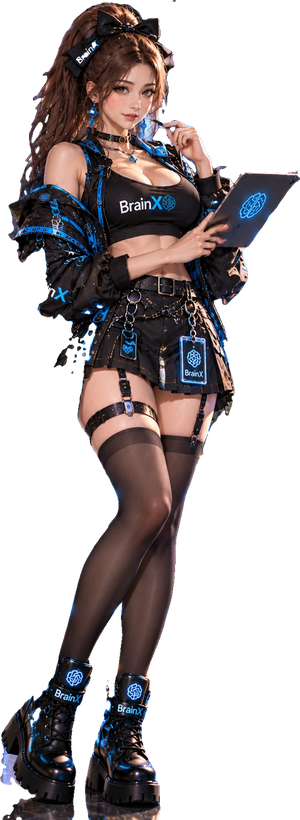
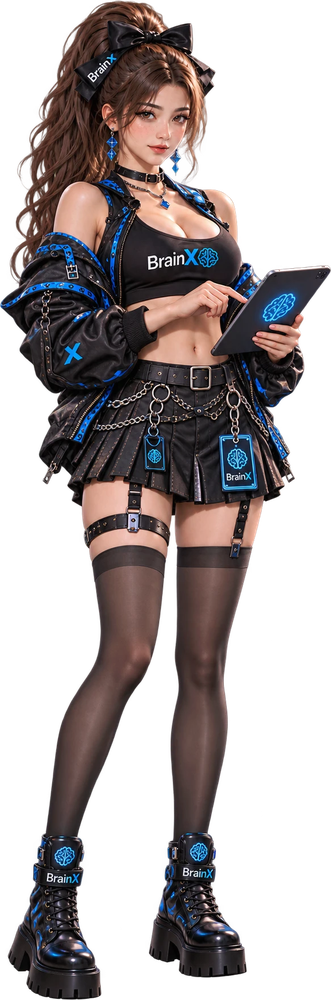
Use the owner's new girls art everywhere, two poses each
The old 820 px cut-outs were soft. The owner's new set (8 girls, 2 poses,
transparent) is cropped to the figure and stored 1000 px tall: pose 1 replaces
Assets/Girls/{name}.png, pose 2 is Assets/Girls/Pose2/{name}.png (GirlArt.
PoseImage), so every place that shows a girl (model picker, wizard, question
and permission cards, composer tag, new-chat backdrop, splash) gets the new art.

- GirlArt: a PNG in a subfolder is a pose, never a girl of its own
- ChatCharacter: faces re-measured on the new pictures, crop 0.12 of the height
- GirlsBackdrop: every other girl in her second pose; source height 1000
- Splash: a random girl in a random pose; splash-girl.png fallback updated
- newchattest: both poses 1000 px for all 8, backdrop alternates poses
- Sources (webp) kept in design/girls-v2/

Proven: newchattest 93/0, chattest PB+PP 41/0, PICK 68/0.

diff --git a/CluadeX/Services/GirlArt.cs b/CluadeX/Services/GirlArt.cs
@@ -7,9 +7,14 @@ using System.Windows.Media.Imaging;
 namespace CluadeX.Services;
 
 /// <summary>
-/// The girls (BrainX, CluadeX, Claude, Codex, Gemini, Grok, MAI cut-outs) who stand beside the startup card and the
-/// agent's questions. Every PNG under Assets\Girls is one of them — the csproj takes the folder by wildcard, so a new
-/// PNG there is a new girl with no code change. Each pick is random but never the same girl twice in a row.
+/// The girls (Antigravity, BrainX, CluadeX, Claude, Codex, Gemini, Grok, MAI cut-outs) who stand beside the startup card
+/// and the agent's questions. Every PNG directly under Assets\Girls is one of them — the csproj takes the folder by
+/// wildcard, so a new PNG there is a new girl with no code change. Each pick is random but never the same girl twice in
+/// a row.
+///
+/// Each girl has two poses (owner's art, 2026-11-07 — "ใช้ภาพ พวกเธอแทนภาพชุดเก่าที่ตัดมาไม่ชัดทั้งหมด"): pose 1 is
+/// Assets\Girls\{name}.png (her face is measured on it, <see cref="ChatCharacter"/>), pose 2 is
+/// Assets\Girls\Pose2\{name}.png. A PNG in a subfolder is never a girl of its own. Cut-outs are 1000 px tall.
 /// </summary>
 public static class GirlArt
 {
@@ -17,6 +22,11 @@ public static class GirlArt
     private static List<string>? _names;
     private static string? _last;
     private static readonly Dictionary<string, ImageSource> Cache = new(StringComparer.OrdinalIgnoreCase);
+
+    private const string Folder = "assets/girls/";
+
+    /// <summary>How many poses each girl has: pose 1 (her main picture) and pose 2.</summary>
+    public const int PoseCount = 2;
 
     /// <summary>Resource names of the girls ("cluadex", "claude", …), read once from the assembly's .g.resources.</summary>
     public static IReadOnlyList<string> Names => _names ??= ReadNames();
@@ -31,8 +41,9 @@ public static class GirlArt
             if (stream == null) return names;
             using var reader = new ResourceReader(stream);
             foreach (DictionaryEntry e in reader)
-                if (e.Key is string key && key.StartsWith("assets/girls/", StringComparison.OrdinalIgnoreCase)
-                    && key.EndsWith(".png", StringComparison.OrdinalIgnoreCase))
+                if (e.Key is string key && key.StartsWith(Folder, StringComparison.OrdinalIgnoreCase)
+                    && key.EndsWith(".png", StringComparison.OrdinalIgnoreCase)
+                    && key.IndexOf('/', Folder.Length) < 0)   // Pose2/… is a pose, not another girl
                     names.Add(Path.GetFileNameWithoutExtension(key));
         }
         catch { /* no girls: callers hide the picture */ }
@@ -57,35 +68,49 @@ public static class GirlArt
         return pick;
     }
 
+    /// <summary>The pack URI of a girl's picture in a pose (1 = her main picture, 2 = Pose2\).</summary>
+    public static Uri UriOf(string name, int pose = 1) => new(pose == 2
+        ? $"pack://application:,,,/CluadeX;component/Assets/Girls/Pose2/{name}.png"
+        : $"pack://application:,,,/CluadeX;component/Assets/Girls/{name}.png", UriKind.Absolute);
+
+    /// <summary>A random pose (1 or 2).</summary>
+    public static int PickPose() { lock (Rng) return Rng.Next(1, PoseCount + 1); }
+
     /// <summary>The girl's picture (decoded once, frozen so any thread may hold it), or null.</summary>
-    public static ImageSource? Image(string? name)
+    public static ImageSource? Image(string? name) => PoseImage(name, 1);
+
+    /// <summary>The girl's picture in a pose (1 or 2; pose 2 falls back to pose 1 when the build has none), or null.</summary>
+    public static ImageSource? PoseImage(string? name, int pose)
     {
         if (string.IsNullOrEmpty(name)) return null;
+        pose = pose == 2 ? 2 : 1;
+        string key = pose == 1 ? name : name + "#2";
         lock (Cache)
         {
-            if (Cache.TryGetValue(name, out var cached)) return cached;
+            if (Cache.TryGetValue(key, out var cached)) return cached;
             try
             {
                 var bmp = new BitmapImage();
                 bmp.BeginInit();
-                bmp.UriSource = new Uri($"pack://application:,,,/CluadeX;component/Assets/Girls/{name}.png", UriKind.Absolute);
+                bmp.UriSource = UriOf(name, pose);
                 bmp.CacheOption = BitmapCacheOption.OnLoad;
                 bmp.EndInit();
                 bmp.Freeze();
-                return Cache[name] = bmp;
+                return Cache[key] = bmp;
             }
-            catch { return null; }
+            catch { return pose == 2 ? PoseImage(name, 1) : null; }
         }
     }
 
     private static readonly Dictionary<string, ImageSource> Small = new(StringComparer.OrdinalIgnoreCase);
 
     /// <summary>The girl's picture decoded at most <paramref name="pixelHeight"/> pixels tall — what a backdrop shows,
-    /// not the full 820-pixel cut-out. Cached per name and height, frozen; null when there is no such girl.</summary>
-    public static ImageSource? Image(string? name, int pixelHeight)
+    /// not the full 1000-pixel cut-out. Cached per name, pose and height, frozen; null when there is no such girl.</summary>
+    public static ImageSource? Image(string? name, int pixelHeight, int pose = 1)
     {
         if (string.IsNullOrEmpty(name) || pixelHeight <= 0) return null;
-        string key = name + "@" + pixelHeight;
+        pose = pose == 2 ? 2 : 1;
+        string key = name + "#" + pose + "@" + pixelHeight;
         lock (Small)
         {
             if (Small.TryGetValue(key, out var cached)) return cached;
@@ -93,14 +118,14 @@ public static class GirlArt
             {
                 var bmp = new BitmapImage();
                 bmp.BeginInit();
-                bmp.UriSource = new Uri($"pack://application:,,,/CluadeX;component/Assets/Girls/{name}.png", UriKind.Absolute);
+                bmp.UriSource = UriOf(name, pose);
                 bmp.DecodePixelHeight = pixelHeight;
                 bmp.CacheOption = BitmapCacheOption.OnLoad;
                 bmp.EndInit();
                 bmp.Freeze();
                 return Small[key] = bmp;
             }
-            catch { return null; }
+            catch { return pose == 2 ? Image(name, pixelHeight, 1) : null; }
         }
     }
 

diff --git a/CluadeX/Services/ChatCharacter.cs b/CluadeX/Services/ChatCharacter.cs
@@ -36,8 +36,9 @@ public sealed class ChatCharacter
 
     /// <summary>Where her face is in her full-figure picture: its centre (fractions of the width / height).</summary>
     private readonly double _faceX, _faceY;
-    /// <summary>The side of the square around her face, as a fraction of the picture's height.</summary>
-    private const double FaceSide = 0.108;
+    /// <summary>The side of the square around her face, as a fraction of the picture's height (forehead to chin, on the
+    /// 1000 px cut-outs of 2026-11-07).</summary>
+    private const double FaceSide = 0.12;
     private ImageBrush? _faceBrush;
 
     /// <summary>Her face, filling a round portrait (owner 2026-10-18: "รูปในวงกลม อวาต้า ให้โฟกัส หน้าเป็นหลัก"): a square
@@ -93,18 +94,19 @@ public sealed class ChatCharacter
 
     // ─── the girls ───
 
-    // The last two numbers: her face's centre in her picture (fraction of width, of height), measured on each PNG.
-    public static readonly ChatCharacter Claude = new("claude", "Claude", Color.FromRgb(0xF0, 0x84, 0x3C), 0.53, 0.095);    // the orange girl
-    public static readonly ChatCharacter Codex = new("codex", "Codex", Color.FromRgb(0x3C, 0xA8, 0xFF), 0.50, 0.107);
-    public static readonly ChatCharacter Gemini = new("gemini", "Gemini", Color.FromRgb(0xA8, 0x8C, 0xFF), 0.50, 0.114);
-    public static readonly ChatCharacter Grok = new("grok", "Grok", Color.FromRgb(0xA3, 0xE6, 0x35), 0.53, 0.090);
-    public static readonly ChatCharacter Mind = new("mai", "มายด์", Color.FromRgb(0xC3, 0x9B, 0xFF), 0.52, 0.100);
-    public static readonly ChatCharacter BrainX = new("brainx", "BrainX", Color.FromRgb(0x3E, 0x9B, 0xFF), 0.46, 0.120);
-    public static readonly ChatCharacter CluadeX = new("cluadex", "CluadeX", Color.FromRgb(0xB9, 0x8C, 0xFF), 0.52, 0.128);
+    // The last two numbers: her face's centre in her picture (fraction of width, of height), measured on each PNG
+    // (pose 1, the owner's 2026-11-07 art, cropped to the figure and 1000 px tall).
+    public static readonly ChatCharacter Claude = new("claude", "Claude", Color.FromRgb(0xF0, 0x84, 0x3C), 0.51, 0.110);    // the orange girl
+    public static readonly ChatCharacter Codex = new("codex", "Codex", Color.FromRgb(0x3C, 0xA8, 0xFF), 0.55, 0.120);
+    public static readonly ChatCharacter Gemini = new("gemini", "Gemini", Color.FromRgb(0xA8, 0x8C, 0xFF), 0.52, 0.125);
+    public static readonly ChatCharacter Grok = new("grok", "Grok", Color.FromRgb(0xA3, 0xE6, 0x35), 0.545, 0.115);
+    public static readonly ChatCharacter Mind = new("mai", "มายด์", Color.FromRgb(0xC3, 0x9B, 0xFF), 0.49, 0.110);
+    public static readonly ChatCharacter BrainX = new("brainx", "BrainX", Color.FromRgb(0x3E, 0x9B, 0xFF), 0.46, 0.125);
+    public static readonly ChatCharacter CluadeX = new("cluadex", "CluadeX", Color.FromRgb(0xB9, 0x8C, 0xFF), 0.50, 0.115);
 
     // Owner 2026-11-06: "ขาดสาวคนไหน ไปสร้างมา" — Antigravity (agy) shared Gemini's girl; she has her own now (Grok Imagine,
     // cut out with rembg isnet-anime like the others).
-    public static readonly ChatCharacter Antigravity = new("antigravity", "Antigravity", Color.FromRgb(0x2D, 0xD4, 0xBF), 0.55, 0.110);
+    public static readonly ChatCharacter Antigravity = new("antigravity", "Antigravity", Color.FromRgb(0x2D, 0xD4, 0xBF), 0.57, 0.120);
 
     public static IReadOnlyList<ChatCharacter> All { get; } = [Claude, Codex, Gemini, Grok, Mind, BrainX, CluadeX, Antigravity];
 

diff --git a/tests/newchattest/Program.cs b/tests/newchattest/Program.cs
@@ -401,10 +401,19 @@ internal static class Program
         var bd = Backdrop;
         Check("the backdrop holds every girl the app ships", bd.Figures.Count == GirlArt.Names.Count && bd.Figures.Count >= 7, $"{bd.Figures.Count} of {GirlArt.Names.Count}");
         Check("the backdrop is never hit-tested", !bd.IsHitTestVisible);
+        // The owner's 2026-11-07 art: every girl ships in two poses, 1000 px tall, and Pose2\ adds no girl of its own.
+        var poseless = GirlArt.Names.Where(n => GirlArt.Image(n) is not BitmapSource p1 || p1.PixelHeight != 1000
+            || GirlArt.PoseImage(n, 2) is not BitmapSource p2 || p2.PixelHeight != 1000 || ReferenceEquals(p1, p2)).ToList();
+        Check("every girl ships in both poses, 1000 px tall", GirlArt.Names.Count == 8 && poseless.Count == 0,
+            $"{string.Join(",", GirlArt.Names)}; missing/odd: {string.Join(",", poseless)}");
+        Check("the backdrop alternates the poses (every other girl in her second)",
+            bd.Figures.Count > 1 && !ReferenceEquals(bd.Figures[1].Source, GirlArt.Image(bd.Figures[1].Tag as string, bd.DecodedHeight))
+            && ReferenceEquals(bd.Figures[1].Source, GirlArt.Image(bd.Figures[1].Tag as string, bd.DecodedHeight, pose: 2))
+            && ReferenceEquals(bd.Figures[0].Source, GirlArt.Image(bd.Figures[0].Tag as string, bd.DecodedHeight)));
         double dpi = VisualTreeHelper.GetDpi(bd).DpiScaleY;
-        int bound = Math.Min(820, (int)Math.Ceiling(GirlsBackdrop.MaxFigureHeight * dpi));
+        int bound = Math.Min(1000, (int)Math.Ceiling(GirlsBackdrop.MaxFigureHeight * dpi));
         var heights = bd.Figures.Select(f => (f.Source as BitmapSource)?.PixelHeight ?? 0).ToList();
-        Check("the pictures are decoded at display height, not the 820-px cut-outs", bd.DecodedHeight == bound && heights.All(h => h == bound),
+        Check("the pictures are decoded at display height, not the 1000-px cut-outs", bd.DecodedHeight == bound && heights.All(h => h == bound),
             $"decoded {string.Join("/", heights.Distinct())} px for at most {GirlsBackdrop.MaxFigureHeight} DIP × {dpi:0.##}");
         Check("…and they stand no taller than that on screen", bd.Figures.All(f => f.ActualHeight <= GirlsBackdrop.MaxFigureHeight + 0.5),
             string.Join("/", bd.Figures.Select(f => f.ActualHeight.ToString("0")).Distinct()));

diff --git a/CluadeX/Views/GirlsBackdrop.cs b/CluadeX/Views/GirlsBackdrop.cs
@@ -11,7 +11,8 @@ namespace CluadeX.Views;
 /// 2026-11-01: "ภาพสาวๆทุกคนเป็นแบล็คกราวด์ด้านหลังลางๆ แบบเท่ห์ๆ ไล่เฟด"). Never hit-tested.
 ///
 /// What it costs: the pictures are decoded only once it is first on screen (a theme that hides it, Classic, never
-/// decodes them) and at the height they are shown, not the cut-outs' 820 px. The one animation is the entrance — each
+/// decodes them) and at the height they are shown, not the cut-outs' 1000 px. Every other girl stands in her second
+/// pose (GirlArt.PoseImage), so the row is not the model picker's line-up again. The one animation is the entrance — each
 /// girl fading up in turn, ~1.7 s, capped at 30 fps — played when the page appears; nothing runs after it, so an empty
 /// chat left open costs no frames. AmbientAnimation pauses the entrance while the page is hidden or the window is
 /// minimised, like every other storyboard started from Triggers.
@@ -21,7 +22,7 @@ public sealed class GirlsBackdrop : Grid
     /// <summary>The tallest the figures stand (DIPs): they shrink with a short chat area, never grow past this.</summary>
     public const double MaxFigureHeight = 560, MinFigureHeight = 240;
     /// <summary>The cut-outs' own height in pixels: decoding taller only adds memory.</summary>
-    private const int SourceHeight = 820;
+    private const int SourceHeight = 1000;
 
     private readonly StackPanel _row = new()
     {
@@ -130,7 +131,8 @@ public sealed class GirlsBackdrop : Grid
         if (DecodedHeight > 0 || _figures.Count == 0) return;
         double scale = VisualTreeHelper.GetDpi(this).DpiScaleY;
         int px = Math.Min(SourceHeight, (int)Math.Ceiling(MaxFigureHeight * scale));
-        foreach (var img in _figures) img.Source = GirlArt.Image(img.Tag as string, px);
+        for (int i = 0; i < _figures.Count; i++)
+            _figures[i].Source = GirlArt.Image(_figures[i].Tag as string, px, pose: i % 2 == 1 ? 2 : 1);
         DecodedHeight = px;
     }
 

diff --git a/CluadeX/Views/SplashWindow.xaml.cs b/CluadeX/Views/SplashWindow.xaml.cs
@@ -61,9 +61,10 @@ public partial class SplashWindow : Window
         VersionText.Text = "v" + (info.Length > 0 ? info.Replace("+", " · ") : asm.GetName().Version?.ToString(3));
         HeadText.Text = CheckingHead;
         EnterTitle.Text = T("เข้าใช้งาน", "Enter");
-        // A different girl each start (never the last one); the original splash girl when the build has none.
+        // A different girl each start (never the last one), in either of her poses; the original splash girl when the
+        // build has none.
         string? girl = GirlArt.PickName(sp.GetService<SettingsService>() is { } ss ? System.IO.Path.Combine(ss.DataRoot, "splash-girl.txt") : null);
-        if (GirlArt.Image(girl) is { } art)
+        if (GirlArt.PoseImage(girl, GirlArt.PickPose()) is { } art)
         {
             SplashGirl.Source = art;
             SplashGirlGlow.Color = GirlArt.Glow(girl);

diff --git a/README.md b/README.md
@@ -25,7 +25,8 @@
   <img src="docs/art/girls-lineup-21x9.jpg" alt="The CluadeX girls: Claude, Codex, Gemini, Antigravity, Grok, Mind, CluadeX, BrainX"/>
 </p>
 
-Each provider answers as its own girl (`Services/ChatCharacter.cs`, cut-outs in `CluadeX/Assets/Girls/`).
+Each provider answers as its own girl (`Services/ChatCharacter.cs`, cut-outs in `CluadeX/Assets/Girls/`, two poses
+each: `{name}.png` and `Pose2/{name}.png`; the owner's art, sources in `design/girls-v2/`).
 Left to right / จากซ้ายไปขวา:
 
 | Girl | Provider |

diff --git a/docs/art/girls-lineup.md b/docs/art/girls-lineup.md
@@ -10,6 +10,10 @@
 
 ## References
 
+> Made from the **first** cut-out set (820 px, replaced on 2026-11-07 by the owner's two-pose art in
+> `design/girls-v2/`). Faces and outfits match the new set, but the lineup was not redrawn from it.
+
+
 The eight cut-outs from `CluadeX/Assets/Girls/` (claude, codex, gemini, antigravity, grok, mai, cluadex, brainx),
 each flattened onto light grey, attached in that order.
 
